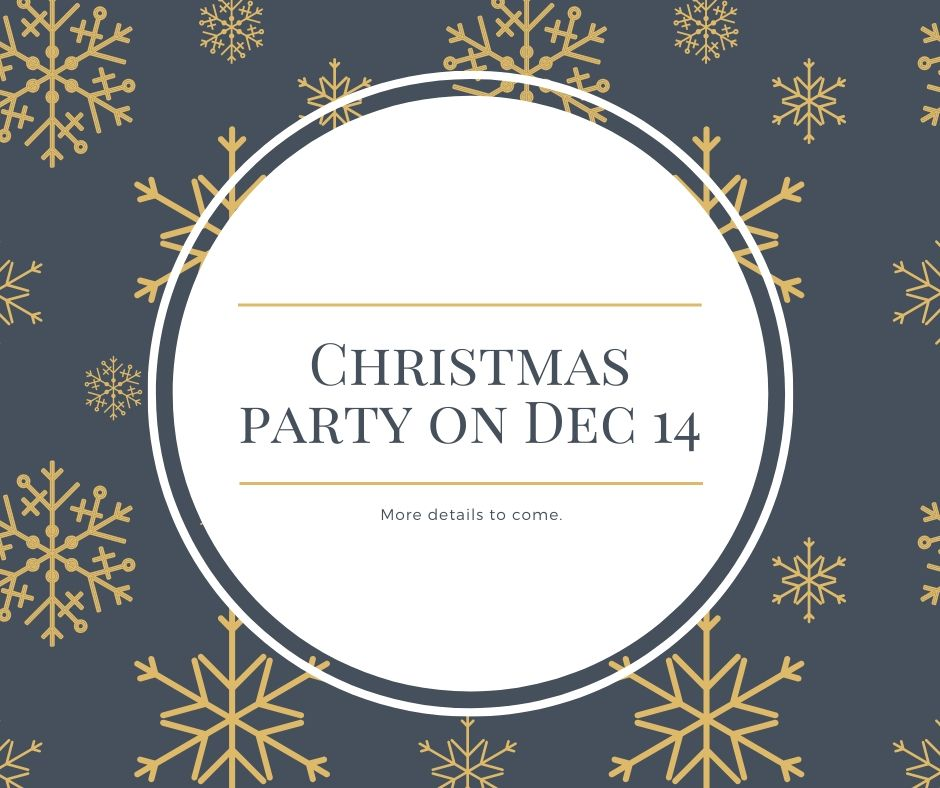
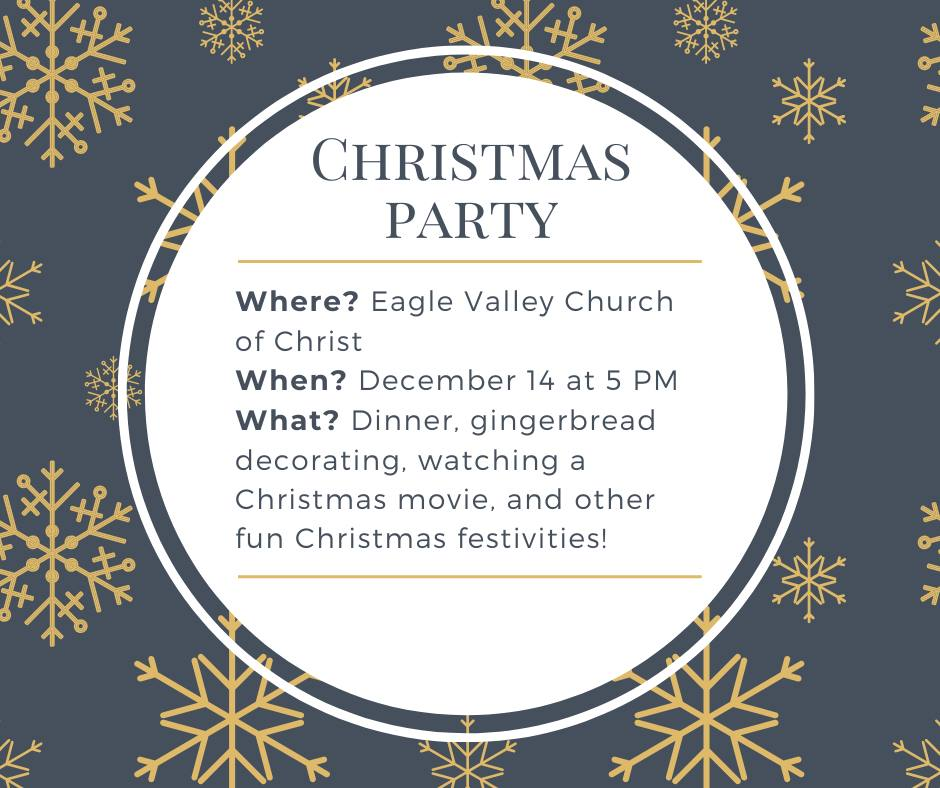
Update Focus (IN) with Dec and Feb Event Details

diff --git a/static/focus-in/index.html b/static/focus-in/index.html
@@ -342,26 +342,26 @@
       document.getElementById("EventRSVP").appendChild(eventRSVP);
     }
 
-    //creating Events (imgSrc, Event Title,, totalEvents, showEvent, Event Details (HTML))
-    createEvent(
-      "content/Let's go bowling!.jpg",
-      "Bowling - November 16th",
-      3,
-      true,
-      `<p>On November 16th, Focus(IN) is going bowling! We will be bowling around 4PM at Royal Pin Western Bowl (<a href="https://goo.gl/maps/s787teNwSbPV7Zqg9">6441 West Washington Street, Indianapolis, IN 46241</a>). Afterwards, we will be going out to dinner! If you have any questions, please don't hesitate to reach out!</p>`
-    );
-
+    //creating Events (imgSrc, Event Title, totalEvents, showEvent, Event Details (HTML))
     createEvent(
       "content/Christmas Party.jpg",
       "Christmas Party - Decemember 14th",
+      3,
+      true,
+      `<p>Focus (IN) will be having a Christmas Party! Starting at 5 PM at Eagle Valley, there will be gingerbread decorations, a movie, dinner, and more!</p>`
+    );
+
+    createEvent(
+      "content/Singing Day.jpg",
+      "Singing Day - January 11th 2020",
       3,
       true,
       `<p>More details to come. RSVP to get notified as soon as they are available!</p>`
     );
 
     createEvent(
-      "content/Singing Day.jpg",
-      "Singing Day - January 11th 2020",
+      "content/Coming Soon.jpg",
+      "February Event - February 29th 2020",
       3,
       true,
       `<p>More details to come. RSVP to get notified as soon as they are available!</p>`
